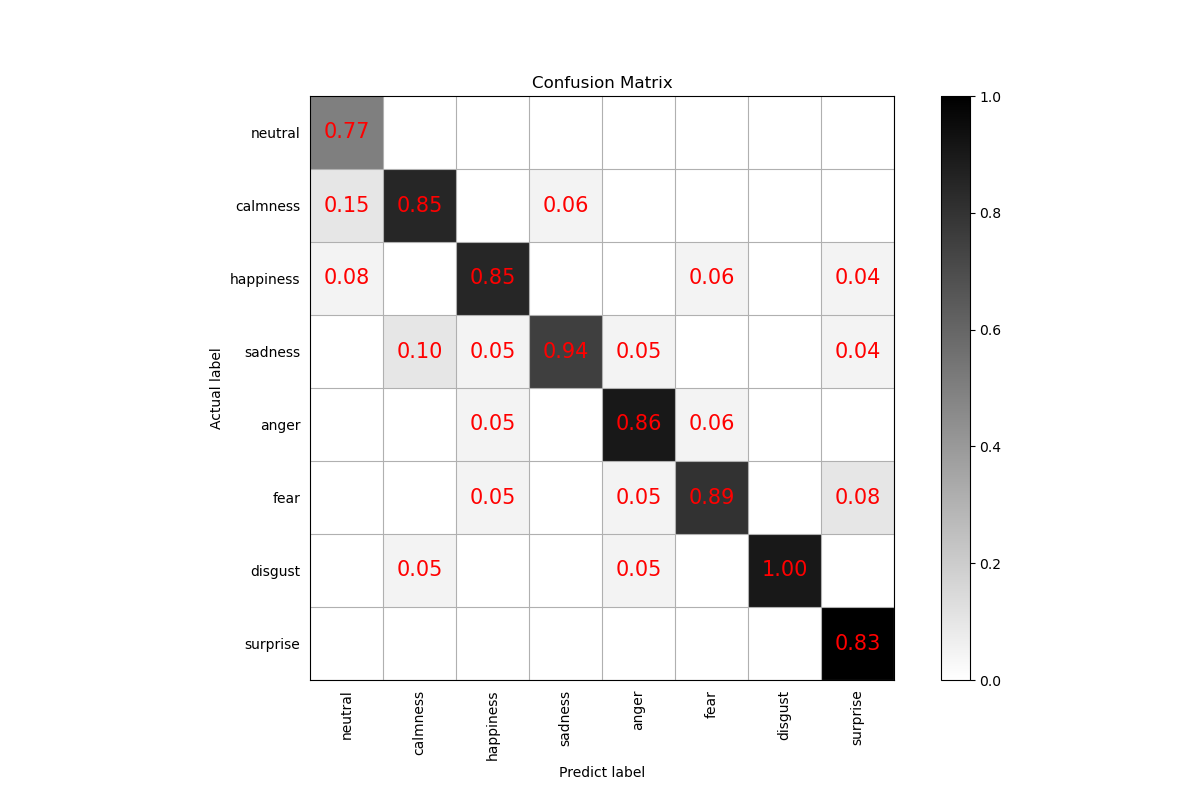
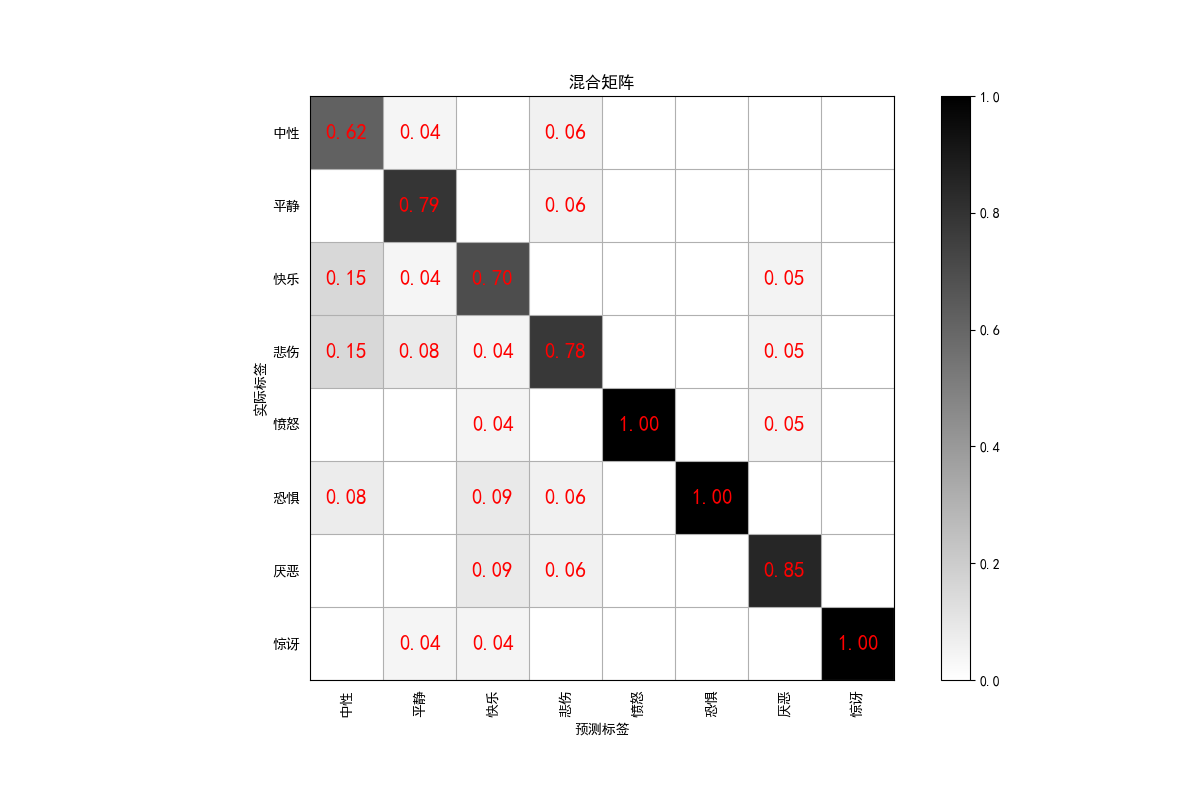
修复混淆矩阵各种问题

diff --git a/mser/utils/utils.py b/mser/utils/utils.py
@@ -55,28 +55,44 @@ def dict_to_object(dict_obj):
     return inst
 
 
-def plot_confusion_matrix(cm, save_path, class_labels, title='Confusion Matrix', show=False):
+def plot_confusion_matrix(cm, save_path, class_labels, show=False):
+    """
+    绘制混淆矩阵
+    @param cm: 混淆矩阵, 一个二维数组，表示预测结果与真实结果的混淆情况。
+    @param save_path: 保存路径, 字符串，指定混淆矩阵图像的保存位置。
+    @param class_labels: 类别名称, 一个列表，包含各个类别的名称。
+    @param show: 是否显示图像, 布尔值，控制是否在绘图窗口显示混淆矩阵图像。
+    """
+    # 检测类别名称是否包含中文，是则设置相应字体
+    s = ''.join(class_labels)
+    is_ascii = all(ord(c) < 128 for c in s)
+    if not is_ascii:
+        plt.rcParams['font.sans-serif'] = ['SimHei']
+        plt.rcParams['axes.unicode_minus'] = False
+
+    # 初始化绘图参数并绘制混淆矩阵
     plt.figure(figsize=(12, 8), dpi=100)
     np.set_printoptions(precision=2)
-    # 在混淆矩阵中每格的概率值
+    # 在混淆矩阵中绘制每个格子的概率值
     ind_array = np.arange(len(class_labels))
     x, y = np.meshgrid(ind_array, ind_array)
     for x_val, y_val in zip(x.flatten(), y.flatten()):
         c = cm[y_val][x_val] / (np.sum(cm[:, x_val]) + 1e-6)
-        # 忽略值太小的
+        # 忽略概率值太小的格子
         if c < 1e-4: continue
         plt.text(x_val, y_val, "%0.2f" % (c,), color='red', fontsize=15, va='center', ha='center')
-    m = np.max(cm)
+    m = np.sum(cm, axis=0) + 1e-6
     plt.imshow(cm / m, interpolation='nearest', cmap=plt.cm.binary)
-    plt.title(title)
+    plt.title('Confusion Matrix' if is_ascii else '混合矩阵')
     plt.colorbar()
+    # 设置类别标签
     xlocations = np.array(range(len(class_labels)))
     plt.xticks(xlocations, class_labels, rotation=90)
     plt.yticks(xlocations, class_labels)
-    plt.ylabel('Actual label')
-    plt.xlabel('Predict label')
+    plt.ylabel('Actual label' if is_ascii else '实际标签')
+    plt.xlabel('Predict label' if is_ascii else '预测标签')
 
-    # offset the tick
+    # 调整刻度标记位置，提高可视化效果
     tick_marks = np.array(range(len(class_labels))) + 0.5
     plt.gca().set_xticks(tick_marks, minor=True)
     plt.gca().set_yticks(tick_marks, minor=True)

diff --git a/README.md b/README.md
@@ -209,13 +209,41 @@ Estimated Total Size (MB): 8.43
 python eval.py --configs=configs/bi_lstm.yml
 ```
 
-评估会出来输出准确率，还保存了混合矩阵图片，保存路径`output/images/`，如下。
-
+评估输出如下：
 ```shell
 [2024-02-03 15:13:25.469242 INFO   ] trainer:evaluate:461 - 成功加载模型：models/BiLSTM_Emotion2Vec/best_model/model.pth
 100%|██████████████████████████████| 150/150 [00:00<00:00, 1281.96it/s]
 评估消耗时间：1s，loss：0.61840，accuracy：0.87333
 ```
+
+评估会出来输出准确率，还保存了混淆矩阵图片，保存路径`output/images/`，如下。
+<br/>
+<div align="center">
+<img src="docs/images/image1.png" alt="混淆矩阵" width="600">
+</div>
+
+
+注意：如果类别标签是中文的，需要设置安装字体才能正常显示，一般情况下Windows无需安装，Ubuntu需要安装。如果Windows确实是确实字体，只需要[字体文件](https://github.com/tracyone/program_font)这里下载`.ttf`格式的文件，复制到`C:\Windows\Fonts`即可。Ubuntu系统操作如下。
+
+1. 安装字体
+```shell
+git clone https://github.com/tracyone/program_font && cd program_font && ./install.sh
+```
+
+2. 执行下面Python代码
+```python
+import matplotlib
+import shutil
+import os
+
+path = matplotlib.matplotlib_fname()
+path = path.replace('matplotlibrc', 'fonts/ttf/')
+print(path)
+shutil.copy('/usr/share/fonts/MyFonts/simhei.ttf', path)
+user_dir = os.path.expanduser('~')
+shutil.rmtree(f'{user_dir}/.cache/matplotlib', ignore_errors=True)
+```
+
 
 <br/>
 <div align="center">
